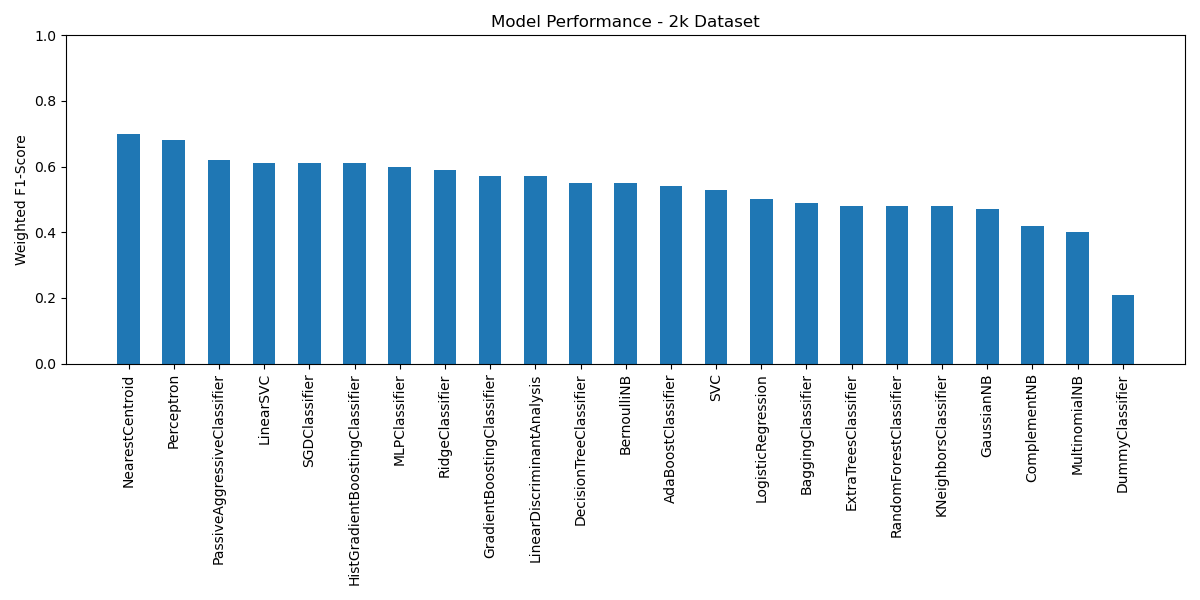
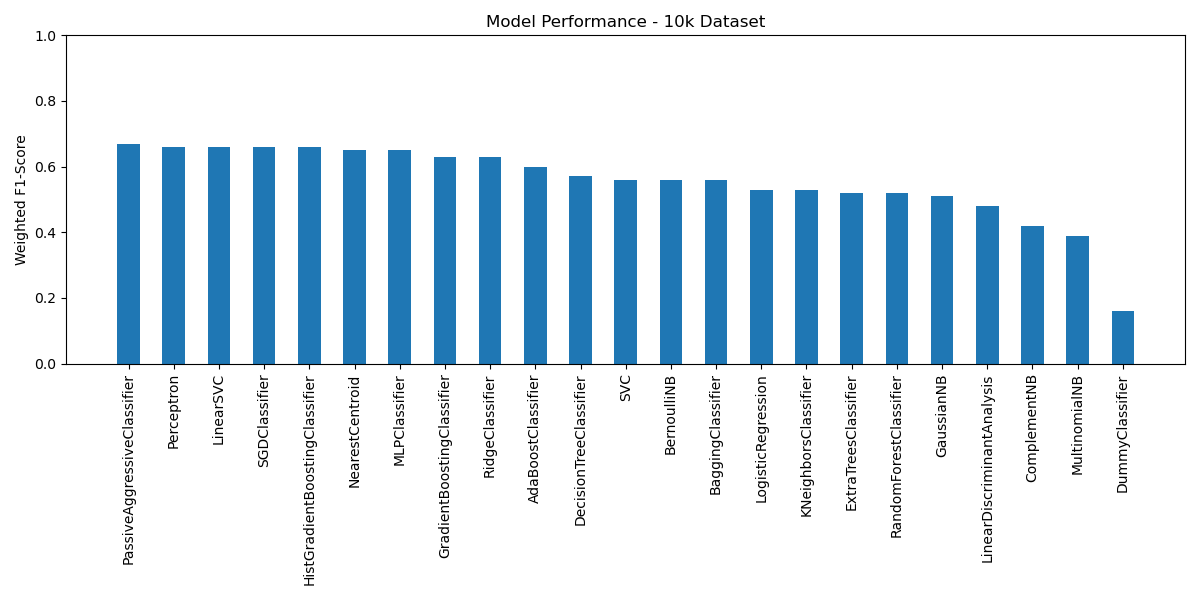
commit message

diff --git a/compare_models_10k.py b/compare_models_10k.py
@@ -120,13 +120,14 @@ datasets = [
 ]
 estimators = {
     #"RidgeClassifier": RidgeClassifier(random_state=0, max_iter=max_iter),
-    #"PassiveAggressiveClassifier": PassiveAggressiveClassifier(random_state=0, max_iter=max_iter),
+    "PassiveAggressiveClassifier": PassiveAggressiveClassifier(random_state=0, max_iter=max_iter),
     #"Perceptron": Perceptron(random_state=0, max_iter=max_iter),
     #"SGDClassifier": SGDClassifier(random_state=0, max_iter=max_iter),
     #"NearestCentroid": NearestCentroid(),
-    #"LinearSVC": LinearSVC(random_state=0, max_iter=max_iter),
+    "LinearSVC": LinearSVC(random_state=0, max_iter=max_iter),
+    #"AdaBoost": AdaBoostClassifier(),
     #"GradientBoostingClassifier": GradientBoostingClassifier(random_state=0),
-    "HistGradientBoostingClassifier": HistGradientBoostingClassifier(random_state=0, max_iter=max_iter),
+    #"HistGradientBoostingClassifier": HistGradientBoostingClassifier(random_state=0, max_iter=max_iter),
     #"LinearDiscriminantAnalysis": LinearDiscriminantAnalysis(),
     #"MLPClassifier": MLPClassifier(random_state=0, max_iter=int(max_iter/20), early_stopping=True),
 }
